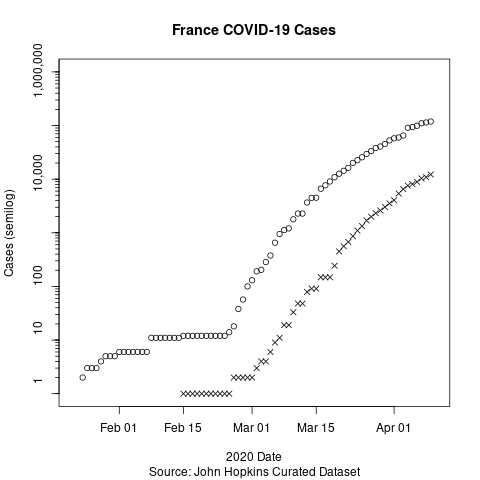
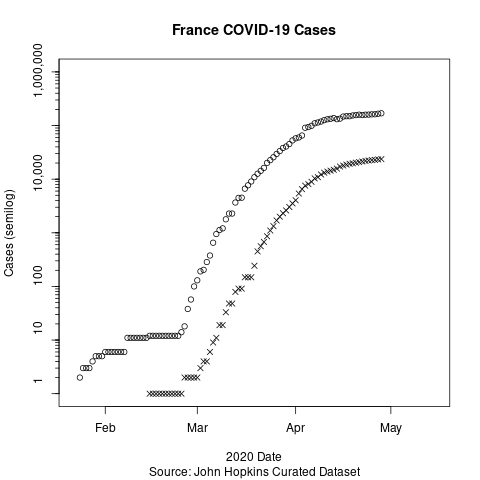
Updated to better end date

diff --git a/README.md b/README.md
@@ -23,6 +23,7 @@ March 29th It has broken beneath the exponential 95% prediction interval for the
 
 * January 22: “We have it totally under control. It’s one person coming in from China. It’s going to be just fine.”
 * February 2: “We pretty much shut it down coming in from China.”
+* February 10: “A lot of people think that goes away in April with the heat. As the heat comes in. Typically that will go away in April. We're in great shape, though.“
 * February 24: “The Coronavirus is very much under control in the USA… Stock Market starting to look very good to me!”
 * February 25: “CDC and my Administration are doing a GREAT job of handling Coronavirus.”
 * February 25: “I think that's a problem that’s going to go away… They have studied it. They know very much. In fact, we’re very close to a vaccine.”
@@ -54,6 +55,7 @@ March 29th It has broken beneath the exponential 95% prediction interval for the
 * April 3 “It's not like we have a massive recession or worse.“
 * April 3 “The original test, the ones we inherited… were broken, they were obsolete, they were not good tests.“
 * April 5 When Dr. Fauci was asked “What is the medical evidence [on hydrochloroquine]?“ Trump injected “You don't have to ask the question.“
+* April 25th “Question that probably some of you are thinking of if you're totally into that world, which I find to be very interesting. So supposing we hit the body with a tremendous, whether it's ultraviolet or just very powerful light. And I think you said that hasn't been checked but you're going to test it. And then I said, supposing you brought the light inside the body, which you can do either through the skin or in some other way. And I think you said you're gonna test that, too. Sounds interesting, right? And then I see the disinfectant where it knocks it out in a minute. One minute. And is there a way we can do something like that by injection inside or, or almost a cleaning? Because you see it gets on the lungs and it does a tremendous number, so it will be interesting to check that. So that you're going to have to use medical doctors. But it sounds, it sounds interesting to me. So we'll see. But the whole concept of the light, the way it kills it in one minute, that's, that's pretty powerful.“
 
 ## Italy
 
